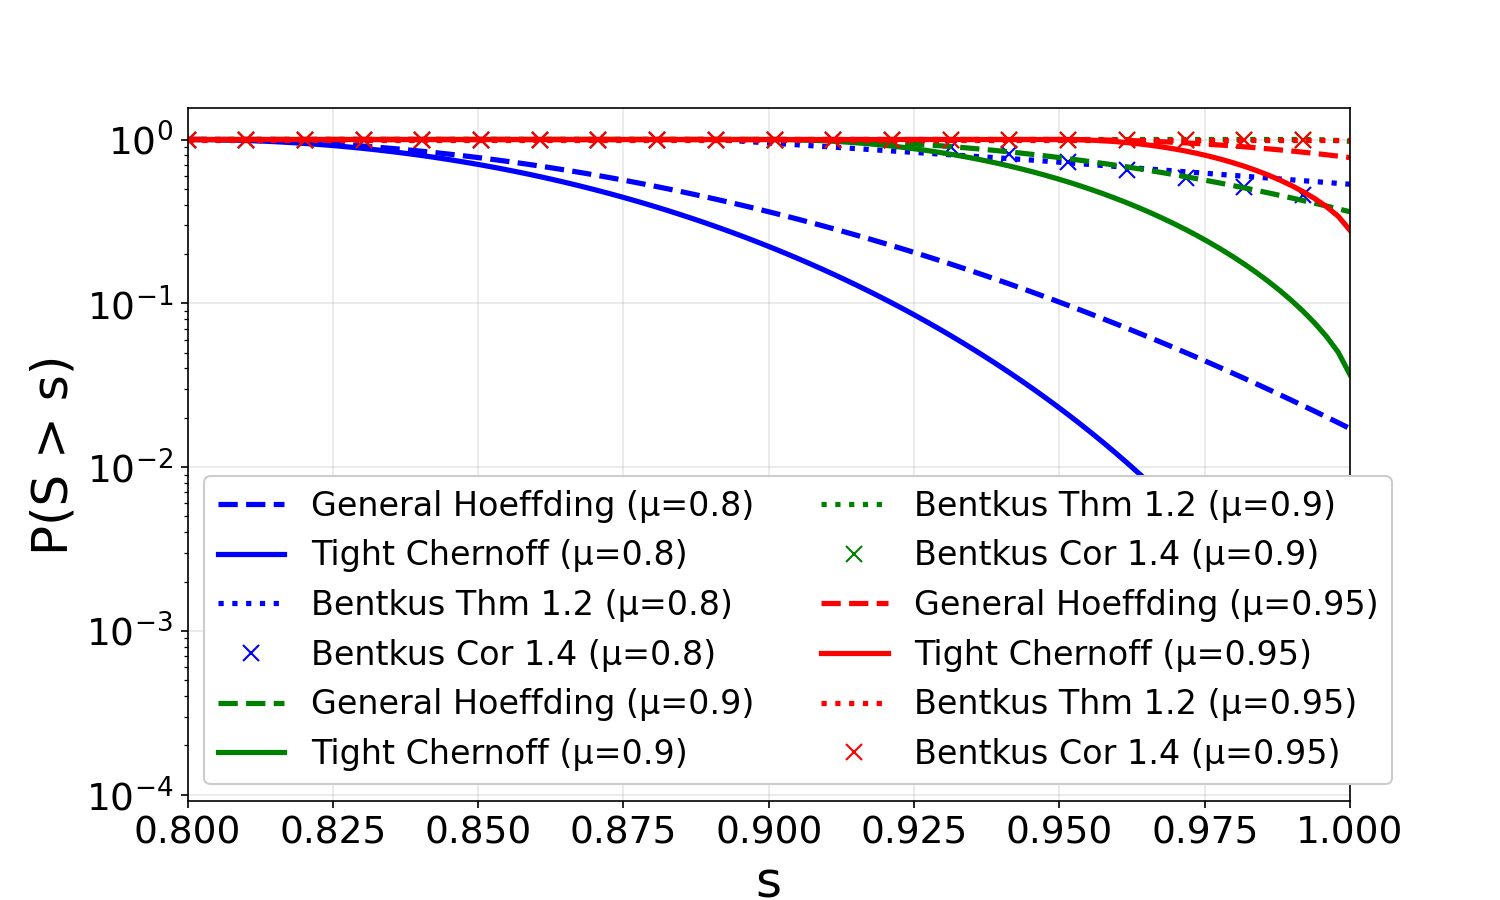
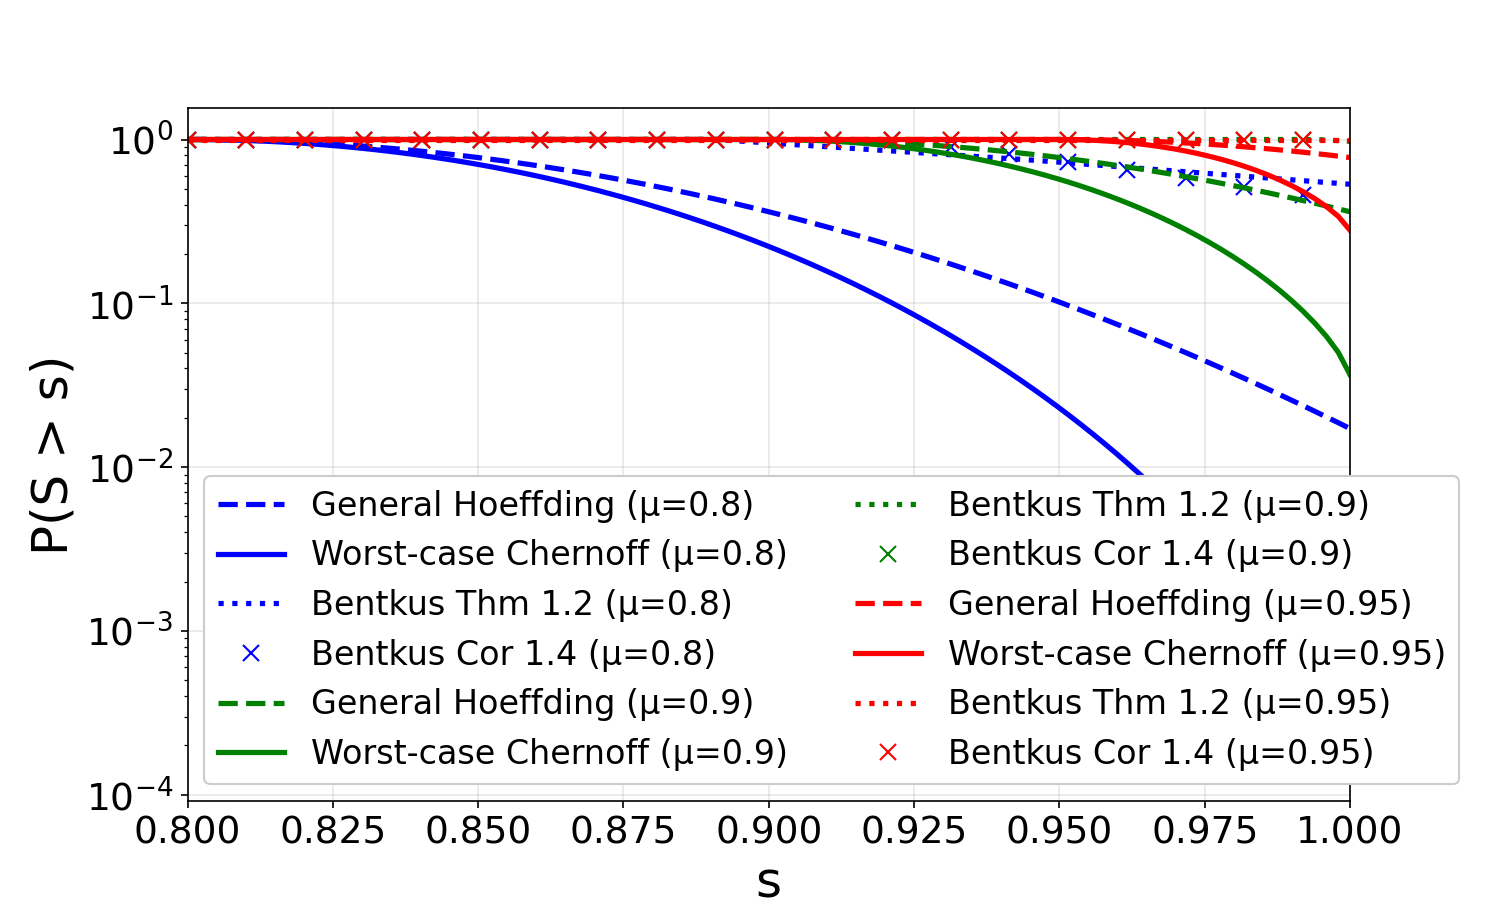
Rename "tight Chernoff" to "worst-case Chernoff" in text/legends and regenerate figures

Changed region(s): [[0.552, 0.5289, 0.9813, 0.8711], [0.2147, 0.8089, 0.5213, 0.8711], [0.184, 0.5911, 0.5213, 0.6533]]

diff --git a/manuscript/main.tex b/manuscript/main.tex
@@ -178,7 +178,7 @@ This theorem suggests two methods for computing $\varphi^*$.  One method involve
 \begin{center}
 \includegraphics[width=3.2in]{comparisons/dirichlet_100.png}\includegraphics[width=3.2in]{comparisons/homogen_100.png}
   \caption{
-  (Left) Comparison of bounds for heterogeneous intervals.  We compare the general Hoeffding inequality \citep[Theorem 2]{hoeffding_probability_1963} (dashed lines), our new tight Chernoff bounds (solid lines, calculated using Theorem~\ref{thm:lowd}), Bentkus Theorem 1.2 \citep{bentkus2004hoeffding} (dotted lines), and Bentkus Corollary 1.4 (×~markers).  (Right) Comparison of bounds for homogeneous intervals.  We compare the general Hoeffding inequality, the tight Chernoff bounds, and Bentkus Theorem 1.2.
+  (Left) Comparison of bounds for heterogeneous intervals.  We compare the general Hoeffding inequality \citep[Theorem 2]{hoeffding_probability_1963} (dashed lines), our new worst-case Chernoff bounds (solid lines, calculated using Theorem~\ref{thm:lowd}), Bentkus Theorem 1.2 \citep{bentkus2004hoeffding} (dotted lines), and Bentkus Corollary 1.4 (×~markers).  (Right) Comparison of bounds for homogeneous intervals.  We compare the general Hoeffding inequality, the worst-case Chernoff bounds, and Bentkus Theorem 1.2.
   }\label{fig:tailboundcomparisons}
 \end{center}
 \end{figure}
@@ -187,9 +187,9 @@ We use simulations to assess the degree of improvement over the general Hoeffdin
 
 For any fixed value of $\mu$ and any value $s \geq \mu$, our new results provide an upper bound on $\mathbb{P}(S>s)$, assuming $\mathbb{E}[S]\leq \mu$.  The general Hoeffding inequality can also be used to produce a bound on $\mathbb{P}(S>s)$, offering a natural point of comparison.  We also compare with the two Bentkus bounds \citep{bentkus2004hoeffding}: Theorem 1.2 is applicable in the CW setting and requires all bounding intervals to be of the same size, while Corollary 1.4 is applicable in the BMD setting and provides per-variable scaling but requires centering information.  To apply Theorem 1.2 to heterogeneous intervals, we rescale all variables so that they lie within $[0, \max_i b_i]$.  For Corollary 1.4, we apply it using only the overall centering $S - \mu$.  These bounds on $\mathbb{P}(S>s)$ have practical implications, such as facilitating hypothesis testing for $\mathbb{E}[S]\leq \mu$ given an observed realization of $S$.
 
-Figure~\ref{fig:tailboundcomparisons} compares our new tight Chernoff bounds with the general Hoeffding inequality and both Bentkus bounds for $\mu \in \{0.8, 0.9, 0.95\}$, showing how they vary as a function of $s$. In many cases, our bounds are orders of magnitude tighter than those derived from the general Hoeffding inequality, demonstrating their advantage in tail estimation.  Neither Bentkus bound performs as well as our method in the heterogeneous case: Theorem 1.2 effectively treats all intervals as having the maximum width (a consequence of applying a CW bound), while Corollary 1.4 has a larger multiplicative constant and, as a BMD-type bound, does not fully exploit the heterogeneity.
+Figure~\ref{fig:tailboundcomparisons} compares our new worst-case Chernoff bounds with the general Hoeffding inequality and both Bentkus bounds for $\mu \in \{0.8, 0.9, 0.95\}$, showing how they vary as a function of $s$. In many cases, our bounds are orders of magnitude tighter than those derived from the general Hoeffding inequality, demonstrating their advantage in tail estimation.  Neither Bentkus bound performs as well as our method in the heterogeneous case: Theorem 1.2 effectively treats all intervals as having the maximum width (a consequence of applying a CW bound), while Corollary 1.4 has a larger multiplicative constant and, as a BMD-type bound, does not fully exploit the heterogeneity.
 
-To verify that our bounds perform well even when the Bentkus bounds are directly applicable, we also consider the case of homogeneous intervals where all $b_i = 1$, which corresponds to the CW setting.  Figure~\ref{fig:tailboundcomparisons} shows this comparison.  In this setting, our new tight Chernoff bounds coincide with the specialized Hoeffding inequality (Equation~\ref{eq:hoeffspecial}), as guaranteed by Theorem~\ref{thm:lowd}.  Both our bounds and Bentkus Theorem 1.2 are much tighter than the general Hoeffding inequality, demonstrating that all refined methods provide substantial improvements when applicable.  The key advantage of our tight Chernoff approach is that it extends naturally to heterogeneous intervals without requiring any rescaling or centering information beyond the overall mean.
+To verify that our bounds perform well even when the Bentkus bounds are directly applicable, we also consider the case of homogeneous intervals where all $b_i = 1$, which corresponds to the CW setting.  Figure~\ref{fig:tailboundcomparisons} shows this comparison.  In this setting, our new worst-case Chernoff bounds coincide with the specialized Hoeffding inequality (Equation~\ref{eq:hoeffspecial}), as guaranteed by Theorem~\ref{thm:lowd}.  Both our bounds and Bentkus Theorem 1.2 are much tighter than the general Hoeffding inequality, demonstrating that all refined methods provide substantial improvements when applicable.  The key advantage of our worst-case Chernoff approach is that it extends naturally to heterogeneous intervals without requiring any rescaling or centering information beyond the overall mean.
 
 
 \bigskip

diff --git a/comparisons/dirichlet_compare.py b/comparisons/dirichlet_compare.py
@@ -1,6 +1,6 @@
 #!/usr/bin/env python3
 """
-Compare Hoeffding, Tight Chernoff, and Bentkus bounds for sums of bounded random variables
+Compare Hoeffding, Worst-case Chernoff, and Bentkus bounds for sums of bounded random variables
 where the bounds come from a Dirichlet (n-simplex) distribution.
 
 This script generates a random vector `a` from the n-simplex, considers
@@ -49,7 +49,7 @@ def generate_simplex_vector(n, seed=42):
 
 def compute_bounds(s_values, mu, a):
     """
-    Compute Hoeffding, Tight Chernoff, and Bentkus bounds for P(S > s).
+    Compute Hoeffding, Worst-case Chernoff, and Bentkus bounds for P(S > s).
     
     Parameters
     ----------
@@ -65,7 +65,7 @@ def compute_bounds(s_values, mu, a):
     hoeffding_bounds : numpy.ndarray
         Hoeffding bound on P(S > s) for each s
     tight_chernoff_bounds : numpy.ndarray
-        Tight Chernoff (sharp Chernoff) bound on P(S > s) for each s
+        Worst-case Chernoff (sharp Chernoff) bound on P(S > s) for each s
     bentkus_thm12_bounds : numpy.ndarray
         Bentkus Thm 1.2 bound on P(S > s) for each s (rescaled to max interval = 1)
     bentkus_cor14_bounds : numpy.ndarray
@@ -81,7 +81,7 @@ def compute_bounds(s_values, mu, a):
         log_hoeffding = hoeffding_thm2(s, mu, a)
         hoeffding_bounds.append(np.exp(log_hoeffding))
         
-        # Tight Chernoff bound (returns log probability)
+        # Worst-case Chernoff bound (returns log probability)
         log_tight_chernoff = sharp_chernoff(s, mu, a)
         tight_chernoff_bounds.append(np.exp(log_tight_chernoff))
         
@@ -136,9 +136,9 @@ def main(n=100, seed=42):
         ax.plot(s_values, hoeffding_bounds, '--', color=color, 
                 label=f'General Hoeffding (μ={mu})', linewidth=2.5)
         
-        # Plot Tight Chernoff bound (solid line)
+        # Plot Worst-case Chernoff bound (solid line)
         ax.plot(s_values, tight_chernoff_bounds, '-', color=color,
-                label=f'Tight Chernoff (μ={mu})', linewidth=2.5)
+                label=f'Worst-case Chernoff (μ={mu})', linewidth=2.5)
         
         # Plot Bentkus Thm 1.2 bound (dotted line)
         ax.plot(s_values, bentkus_thm12_bounds, ':', color=color,
@@ -168,7 +168,7 @@ def main(n=100, seed=42):
 if __name__ == '__main__':
     import argparse
     
-    parser = argparse.ArgumentParser(description='Compare Hoeffding, Tight Chernoff, and Bentkus bounds')
+    parser = argparse.ArgumentParser(description='Compare Hoeffding, Worst-case Chernoff, and Bentkus bounds')
     parser.add_argument('--n', type=int, default=100, help='Dimension of the simplex (default: 100)')
     parser.add_argument('--seed', type=int, default=42, help='Random seed for reproducibility (default: 42)')
     

diff --git a/comparisons/homogen_compare.py b/comparisons/homogen_compare.py
@@ -1,15 +1,15 @@
 #!/usr/bin/env python3
 """
-Compare Hoeffding (Thm 1 & 2), Tight Chernoff, and Bentkus bounds for sums of bounded 
+Compare Hoeffding (Thm 1 & 2), Worst-case Chernoff, and Bentkus bounds for sums of bounded 
 random variables where all variables are in [0, 1] (homogeneous intervals).
 
 In this case:
 - Hoeffding Theorem 1 (KL-based) applies directly
 - Hoeffding Theorem 2 (sum of squares) also applies
-- Tight Chernoff (sharp Chernoff) should match Hoeffding Theorem 1 as a sanity check
+- Worst-case Chernoff (sharp Chernoff) should match Hoeffding Theorem 1 as a sanity check
 - Bentkus Thm 1.2 bound compares to Binomial(n, p)
 
-This provides a sanity check that Tight Chernoff agrees with the KL Hoeffding bound
+This provides a sanity check that Worst-case Chernoff agrees with the KL Hoeffding bound
 when all intervals are equal to [0, 1].
 """
 
@@ -42,7 +42,7 @@ def compute_bounds(s_values, mu, n):
     hoeffding2_bounds : numpy.ndarray
         Hoeffding Theorem 2 (sum of squares) bound on P(S > s)
     tight_chernoff_bounds : numpy.ndarray
-        Tight Chernoff (sharp Chernoff) bound on P(S > s)
+        Worst-case Chernoff (sharp Chernoff) bound on P(S > s)
     bentkus_thm12_bounds : numpy.ndarray
         Bentkus Thm 1.2 bound on P(S > s)
     """
@@ -58,7 +58,7 @@ def compute_bounds(s_values, mu, n):
         log_hoeffding2 = hoeffding_thm2(s, mu, a)
         hoeffding2_bounds.append(np.exp(log_hoeffding2))
         
-        # Tight Chernoff bound (returns log probability)
+        # Worst-case Chernoff bound (returns log probability)
         log_tight_chernoff = sharp_chernoff(s, mu, a)
         tight_chernoff_bounds.append(np.exp(log_tight_chernoff))
         
@@ -105,9 +105,9 @@ def main(n=100):
         ax.plot(s_values / n, hoeffding2, '-.', color=color, 
                 label=f'General Hoeffding (μ={frac})', linewidth=2.5)
         
-        # Plot Tight Chernoff bound (solid line)
+        # Plot Worst-case Chernoff bound (solid line)
         ax.plot(s_values / n, tight_chernoff, '-', color=color,
-                label=f'Tight Chernoff (μ={frac})', linewidth=2.5)
+                label=f'Worst-case Chernoff (μ={frac})', linewidth=2.5)
         
         # Plot Bentkus Thm 1.2 bound (dotted line)
         ax.plot(s_values / n, bentkus_thm12, ':', color=color,

diff --git a/becitbam/__init__.py b/becitbam/__init__.py
@@ -344,12 +344,12 @@ def bentkus_binomial(s, mu, a):
 
 
 r'''
- _   _       _     _          _                            __  __
-| |_(_) __ _| |__ | |_    ___| |__   ___ _ __ _ __   ___  / _|/ _|
-| __| |/ _` | '_ \| __|  / __| '_ \ / _ \ '__| '_ \ / _ \| |_| |_
-| |_| | (_| | | | | |_  | (__| | | |  __/ |  | | | | (_) |  _|  _|
- \__|_|\__, |_| |_|\__|  \___|_| |_|\___|_|  |_| |_|\___/|_| |_|
-       |___/
+                        _                            _                            __  __
+ __      _____  _ __ __| |_       ___ __ _ ___  ___ | |__   ___ _ __ _ __   ___  / _|/ _|
+ \ \ /\ / / _ \| '__/ _  __|__  / __/ _` / __|/ _ \| '_ \ / _ \ '__| '_ \ / _ \| |_| |_
+  \ V  V / (_) | | \__ \ || |_ | (_| (_| \__ \  __/| | | |  __/ |  | | | | (_) |  _|  _|
+   \_/\_/ \___/|_| |___/\__\__| \___\__,_|___/\___||_| |_|\___|_|  |_| |_|\___/|_| |_|
+
 '''
 
 def uniqify(a):
@@ -439,7 +439,7 @@ def calculate_sharp_chernoff_parameters(s, mu, a):
 
         X_i ~ Bernoulli(tau_i / a_i) * a_i
 
-    then E[exp(tstar * sum X_i)] * exp(-tstar * s) achieves the tight
+    then E[exp(tstar * sum X_i)] * exp(-tstar * s) achieves the worst-case
     Chernoff bound. Here tau_i = E[X_i] is the mean of X_i.
 
     Parameters

diff --git a/manuscript/supplementary.tex b/manuscript/supplementary.tex
@@ -66,6 +66,6 @@ In this appendix, we present additional simulation results to demonstrate how th
 \end{center}
 \end{figure}
 
-As the sample size increases, all bounds become tighter, but the relative advantage of the tight Chernoff bound over the general Hoeffding inequality remains substantial across all values of $n$ considered.
+As the sample size increases, all bounds become tighter, but the relative advantage of the worst-case Chernoff bound over the general Hoeffding inequality remains substantial across all values of $n$ considered.
 
 \end{document}
